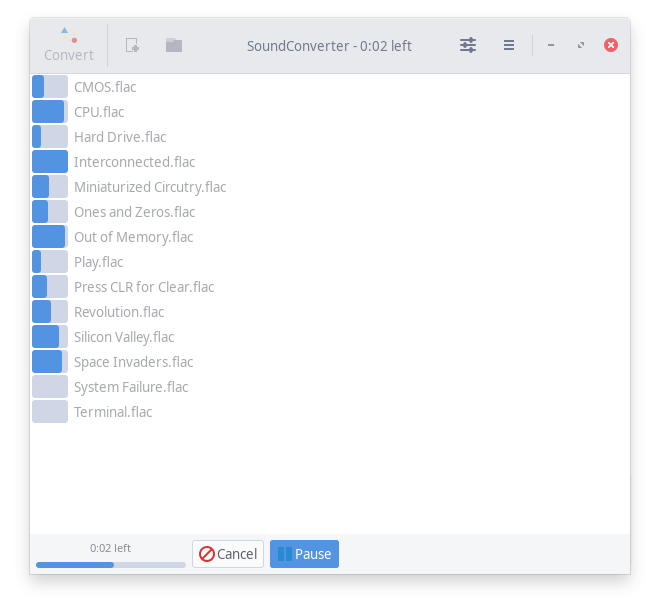
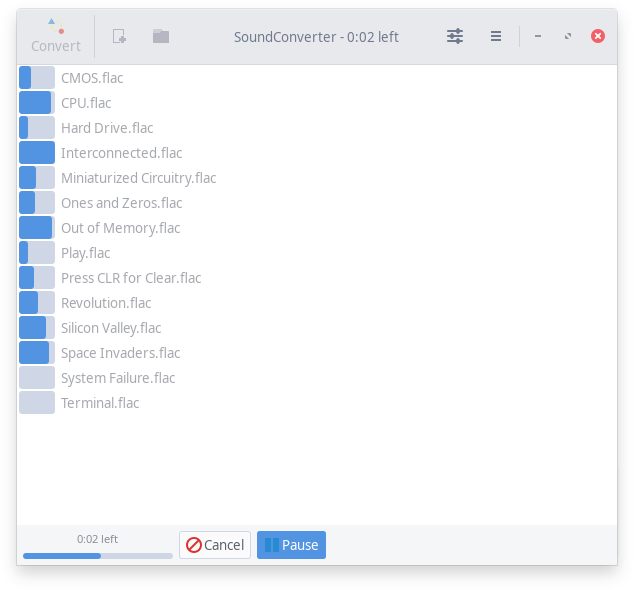
added batch screenshot

diff --git a/README.md b/README.md
@@ -13,6 +13,10 @@ performance, the command line tools are always going to be preferable.
     <img src="data/screenshot.png" alt="SoundConverter Screenshot"/>
 </p>
 
+<p align="center">
+    <img src="data/screenshot_batch.png" alt="SoundConverter Screenshot"/>
+</p>
+
 ## Building and Installation
 
 Ubuntu and Arch packages exist in the official repositories.
